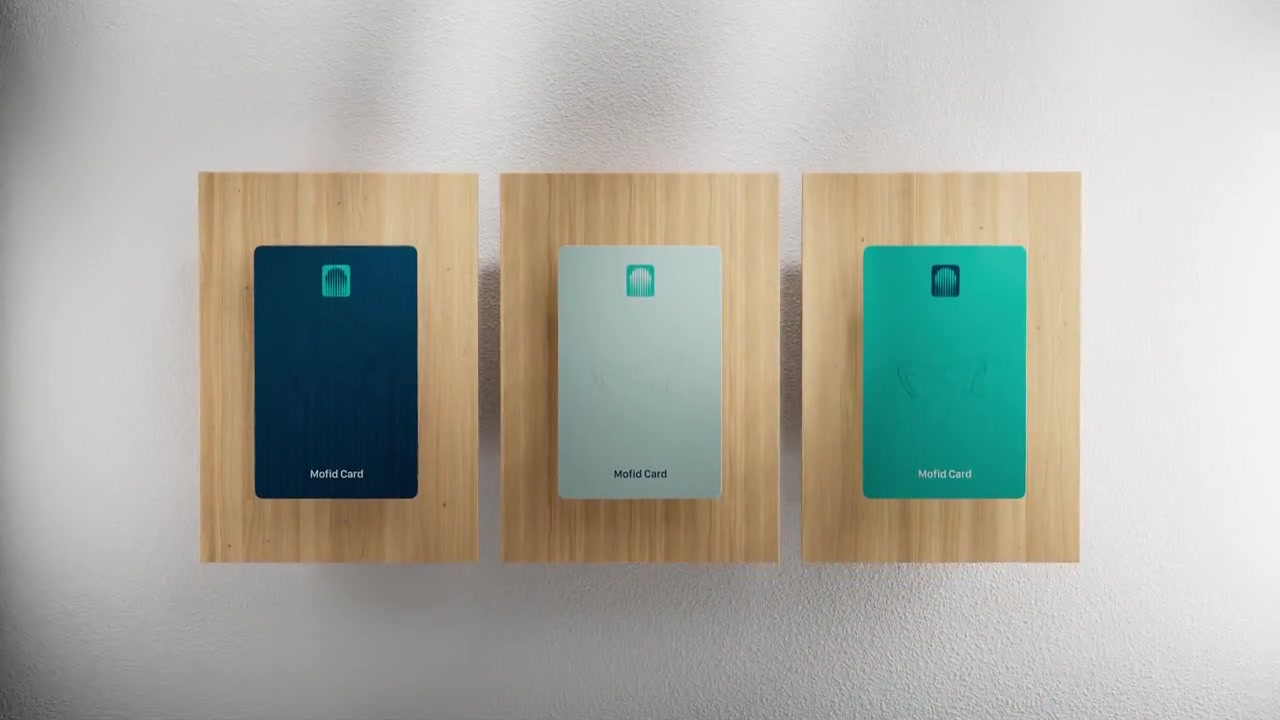
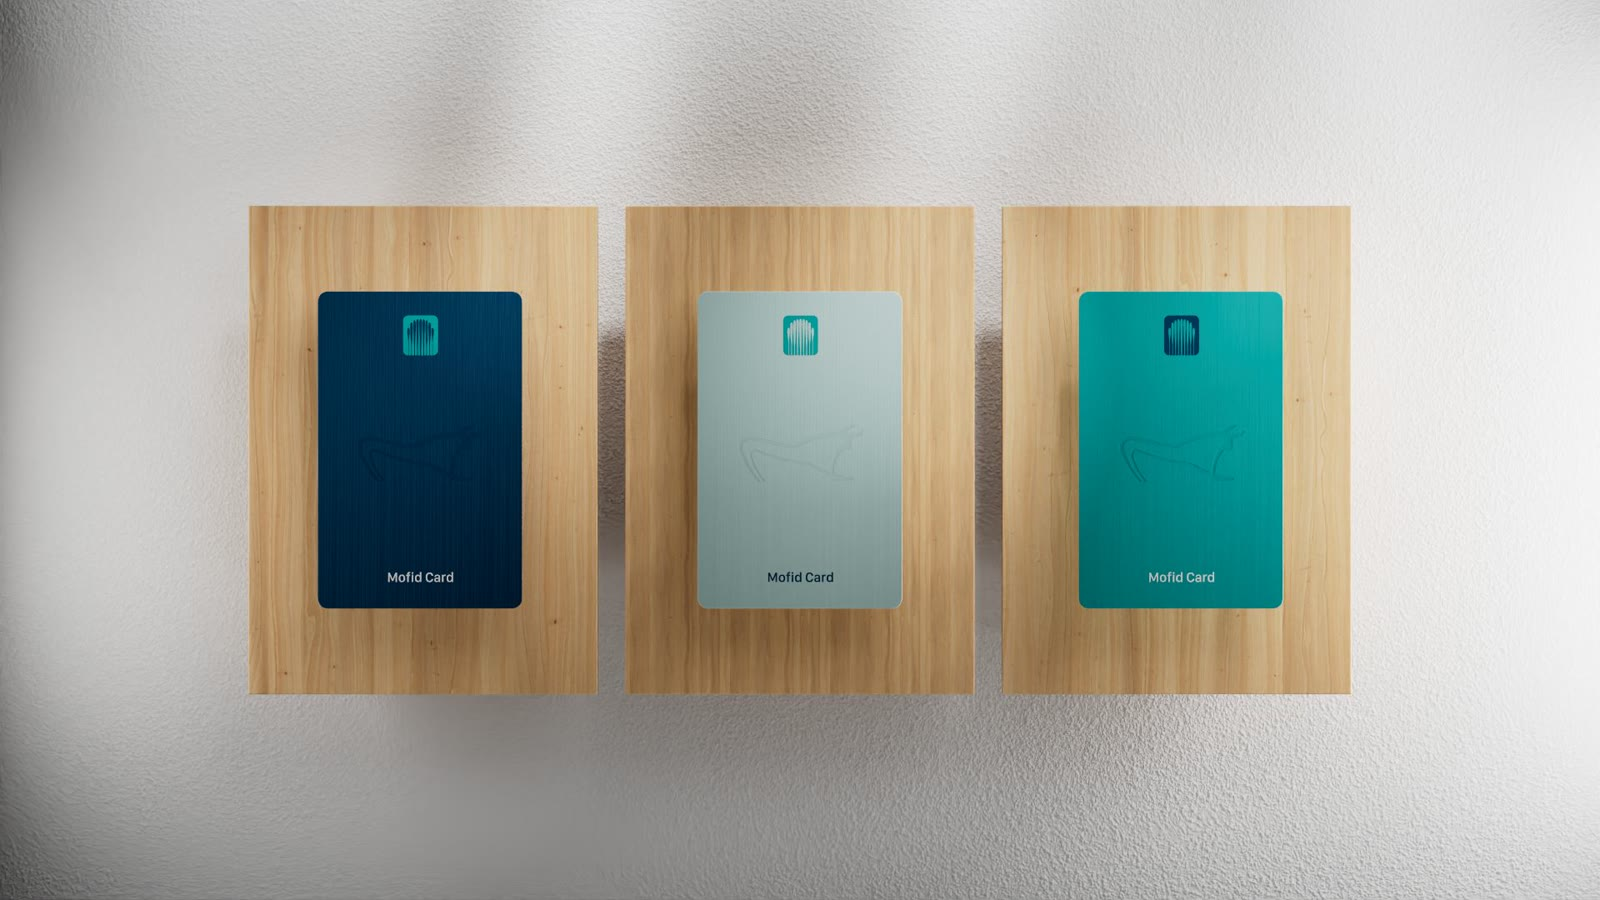
Place Mofid Card / Mofid 4.0 / Jahat 1404 assets; gallery supports loop-videos
- Gallery items can now be looping MP4s (NN.mp4), played only while on-screen
  to avoid lag; falls back to NN.jpg/png/gif images.
- Converted all uploaded gifs to muted MP4 loops and compressed the Hero and
  speaker videos (390MB of raw assets -> ~12MB web media, no visible loss).
- Mofid Card: new thumbnail + gallery (3 shots + 3 loops).
- Mofid 4.0: new thumbnail + gallery (3 loops).
- Jahat 1404: real thumbnail + compressed hero video + 14-item gallery.
- Removed the _raw upload folder.

Claude-Session: https://claude.ai/code/session_01SieK6Xsa6riibEPLGagZdD

diff --git a/index.html b/index.html
@@ -3097,6 +3097,7 @@
 
     let currentIdx = 0;
     let galleryObserver = null;
+    let galleryVidObserver = null;   // plays/pauses gallery loop-videos by visibility
     let galleryGen = 0;   // bumped each populate() so stale async gallery loads are dropped
     let currentProject = null;
     let heroIdx = 0;      // index into currentProject.heroes (hero carousel)
@@ -3266,31 +3267,62 @@
       renderHero();
     }
 
-    // Sequentially load NN.jpg / .png / .gif (NN = 01, 02, …) from a folder,
-    // stopping at the first index that has no file in any of those extensions.
+    // Sequentially load gallery items NN (= 01, 02, …) from a folder, stopping
+    // at the first index with no file. Each index can be a looping video
+    // (NN.mp4, played only while on-screen) or an image (NN.jpg/png/gif).
     function probeGallery(galleryEl, dir, gen) {
-      const exts = ['jpg', 'png', 'gif'];
-      function tryIndex(n) {
-        if (gen !== galleryGen) return;              // a newer project is open — abandon
+      if (galleryVidObserver) galleryVidObserver.disconnect();
+      galleryVidObserver = new IntersectionObserver(function(entries) {
+        entries.forEach(function(e) {
+          if (e.isIntersecting) e.target.play().catch(function(){}); else e.target.pause();
+        });
+      }, { root: overlay, threshold: 0.1 });
+
+      function addItem(node) {
+        const item = document.createElement('div');
+        item.className = 'po-gallery-item';
+        item.appendChild(node);
+        galleryEl.appendChild(item);
+        observeGallery();
+      }
+      function tryVideo(n) {
+        if (gen !== galleryGen) return;
         const nn = ('0' + n).slice(-2);
+        const v = document.createElement('video');
+        v.muted = true; v.loop = true; v.setAttribute('playsinline', ''); v.preload = 'metadata';
+        v.style.cssText = 'width:100%;height:auto;display:block;';
+        let settled = false;
+        v.addEventListener('loadeddata', function() {
+          if (settled) return; settled = true;
+          if (gen !== galleryGen) return;
+          v.classList.add('loaded');
+          addItem(v);
+          galleryVidObserver.observe(v);
+          tryVideo(n + 1);
+        }, { once: true });
+        v.addEventListener('error', function() {
+          if (settled) return; settled = true;
+          tryImage(n);                                // no video at this index — try an image
+        }, { once: true });
+        v.src = dir + '/' + nn + '.mp4';
+      }
+      function tryImage(n) {
+        if (gen !== galleryGen) return;
+        const exts = ['jpg', 'png', 'gif'];
         let ei = 0;
         const img = new Image();
-        function attempt() { img.src = dir + '/' + nn + '.' + exts[ei]; }
+        function attempt() { img.src = dir + '/' + ('0' + n).slice(-2) + '.' + exts[ei]; }
         img.onload = function() {
-          if (gen !== galleryGen) return;            // stale load — drop it
+          if (gen !== galleryGen) return;
           img.classList.add('loaded');
           img.style.cssText = 'width:100%;height:auto;display:block;';
-          const item = document.createElement('div');
-          item.className = 'po-gallery-item';
-          item.appendChild(img);
-          galleryEl.appendChild(item);
-          observeGallery();
-          tryIndex(n + 1);
+          addItem(img);
+          tryVideo(n + 1);
         };
         img.onerror = function() { if (++ei < exts.length) attempt(); }; // missing in all exts → stop
         attempt();
       }
-      tryIndex(1);
+      tryVideo(1);
     }
 
     // ── Mofid overlay helpers ──────────────────────────────────────────
@@ -3466,6 +3498,8 @@
       // after the overlay is closed (otherwise it plays on until a refresh).
       var heroVid = overlay.querySelector('.po-hero video');
       if (heroVid) { heroVid.pause(); heroVid.removeAttribute('src'); heroVid.load(); heroVid.remove(); }
+      overlay.querySelectorAll('.po-gallery video').forEach(function(v) { v.pause(); });
+      if (galleryVidObserver) galleryVidObserver.disconnect();
       if (galleryObserver) galleryObserver.disconnect();
       document.body.style.overflow = '';
       if (lastFocused && lastFocused.focus) lastFocused.focus({preventScroll: true});